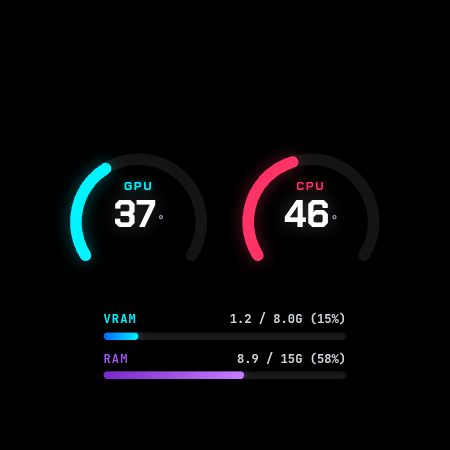
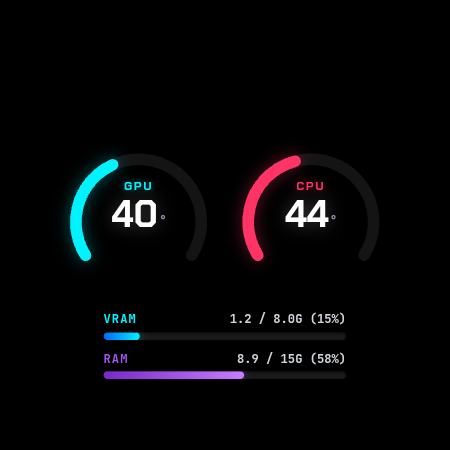
feat: default to 4-metric mode, auto-fullscreen on load, and PWA manifest

diff --git a/static/js/app.js b/static/js/app.js
@@ -177,6 +177,51 @@
   });
 
   /**
+   * Fullscreen API Helpers
+   */
+  function enterFullscreen() {
+    const docEl = document.documentElement;
+    const requestFs = docEl.requestFullscreen ||
+                      docEl.webkitRequestFullscreen ||
+                      docEl.mozRequestFullScreen ||
+                      docEl.msRequestFullscreen;
+
+    if (requestFs && !document.fullscreenElement && !document.webkitFullscreenElement) {
+      requestFs.call(docEl).catch(() => {
+        // Will be triggered on first touch interaction
+      });
+    }
+  }
+
+  function toggleFullscreen() {
+    const isFullscreen = document.fullscreenElement || document.webkitFullscreenElement;
+    if (!isFullscreen) {
+      enterFullscreen();
+    } else {
+      const exitFs = document.exitFullscreen || document.webkitExitFullscreen;
+      if (exitFs) exitFs.call(document);
+    }
+  }
+
+  // Automatic Fullscreen Trigger
+  function initAutoFullscreen() {
+    // Attempt fullscreen immediately
+    enterFullscreen();
+
+    // Immediate user activation fallback: on first tap/touch, go fullscreen immediately
+    const onUserTouch = () => {
+      enterFullscreen();
+      ['touchstart', 'touchend', 'click', 'pointerdown'].forEach(evt => {
+        window.removeEventListener(evt, onUserTouch, { capture: true });
+      });
+    };
+
+    ['touchstart', 'touchend', 'click', 'pointerdown'].forEach(evt => {
+      window.addEventListener(evt, onUserTouch, { capture: true, passive: true });
+    });
+  }
+
+  /**
    * OLED Anti-Burn-In Pixel Shifting Routine & Scale preservation
    * Subtly moves layout coordinates every 90 seconds while preserving scale
    */
@@ -725,18 +770,14 @@
         const currentTime = new Date().getTime();
         const tapLength = currentTime - lastTapTime;
 
-        // Double tap detection (within 320ms) -> Fullscreen
-        if (tapLength < 320 && tapLength > 0) {
-          toggleFullscreen();
+        // Double tap (within 350ms) -> Cycle watch face
+        if (tapLength < 350 && tapLength > 0) {
+          cycleNextFace();
           lastTapTime = 0;
         } else {
-          // Single tap -> Cycle watch face
+          // Single tap -> Trigger Fullscreen immediately
           lastTapTime = currentTime;
-          setTimeout(() => {
-            if (lastTapTime === currentTime) {
-              cycleNextFace();
-            }
-          }, 320);
+          enterFullscreen();
         }
 
         // Keep wake lock alive on touch
@@ -846,8 +887,8 @@
    * Initialization
    */
   function init() {
-    // Auto pure-watch mode on small wearable screens
-    if (window.innerWidth <= 500 || window.innerHeight <= 500) {
+    // Auto pure-watch mode on small wearable screens or Android mobile devices
+    if (window.innerWidth <= 768 || window.innerHeight <= 768 || /Android|Wear/i.test(navigator.userAgent)) {
       document.body.classList.add('pure-watch-mode');
     }
 
@@ -858,14 +899,13 @@
 
     // Default to clean 4-metric Dual Arc HUD
     setWatchFace('faceArc');
-
-    // Generate QR code with the current watch URL
-    if (elements.watchUrl) {
-      generateQrCode(elements.watchUrl.textContent.trim());
-    }
+    try {
+      localStorage.setItem('gw4_face', 'faceArc');
+    } catch (e) {}
 
     setupListeners();
     requestWakeLock();
+    initAutoFullscreen();
     startStream();
   }
 

diff --git a/templates/index.html b/templates/index.html
@@ -4,9 +4,11 @@
   <meta charset="UTF-8">
   <meta name="viewport" content="width=device-width, initial-scale=1.0, maximum-scale=1.0, user-scalable=no, viewport-fit=cover">
   <meta name="theme-color" content="#000000">
+  <meta name="mobile-web-app-capable" content="yes">
   <meta name="apple-mobile-web-app-capable" content="yes">
   <meta name="apple-mobile-web-app-status-bar-style" content="black-translucent">
   <meta name="description" content="Galaxy Watch 4 Real-time Desktop Hardware Monitor for CPU, GPU RTX 3060 Ti, and RAM">
+  <link rel="manifest" href="/static/manifest.json">
   <title>Galaxy Watch Hardware Monitor</title>
   
   <!-- Modern Typography -->

diff --git a/tools/launch_watch.py b/tools/launch_watch.py
@@ -211,6 +211,10 @@ def launch_on_watch(adb_cmd, pc_ip, port=8080):
     ])
 
     if code == 0:
+        # Brief pause then simulate a tap to trigger instant fullscreen mode
+        time.sleep(1.2)
+        run_adb(adb_cmd, ["shell", "input", "tap", "225", "225"])
+
         print("\n" + "=" * 64)
         print(f" [SUCCESS] Hardware Monitor refreshed on Galaxy Watch 4!")
         print(f" Target URL : {url}")
